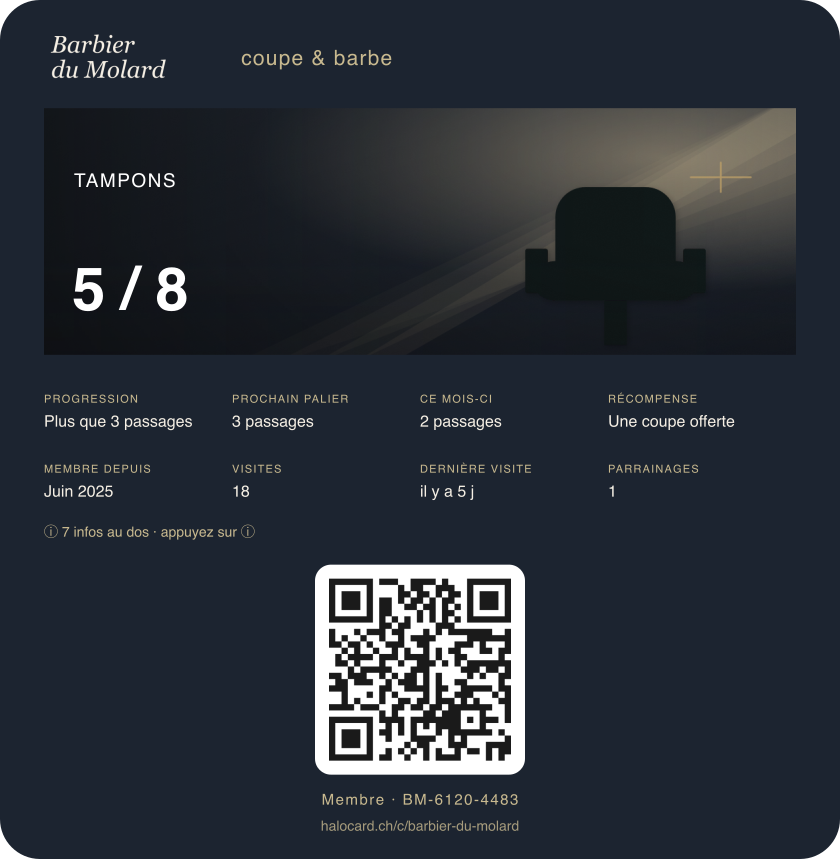
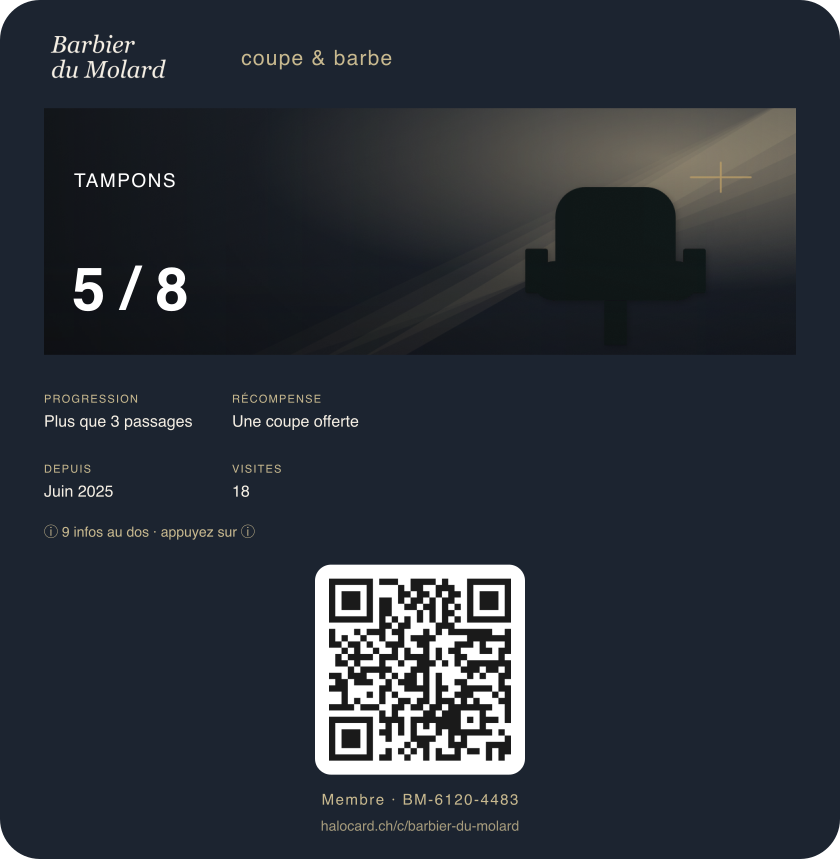
fix(kit): recto sobre — 1 secondary + 2 auxiliary courts, le détail au dos
Constaté sur iPhone : les lignes du milieu du pass étaient illisibles —
3 secondary kit (+ RÉCOMPENSE injectée par applyIdentity = 4 colonnes) et
4 auxiliary aux labels longs (« MEMBRE DEPUIS », « DERNIÈRE VISITE »,
« PARRAINAGES ») : les textes se touchaient.

- seedKit.ts : secondary 3 → 1 (PROGRESSION ; RÉCOMPENSE injectée fait la
  2e colonne) ; auxiliary 4 → 2 avec labels courts (« DEPUIS », « VISITES ») ;
  PROCHAIN PALIER et PARRAINAGES déplacés au DOS (rien n'est perdu) ; le
  {points} vivant du tiered passe d'auxiliary au dos (« PROGRÈS »), même
  motif que le compteur amount_points. Dos kit plafonné à 6 champs :
  applyIdentity en appende 4-5 et passJson tronque à MAX_BACK_FIELDS (10) —
  au-delà, le téléphone sauterait.
- kit.ts : champs volatils CE MOIS-CI (thisMonth) et DERNIÈRE VISITE
  (lastVisit) SUPPRIMÉS du type DemoFieldData + des 7 entrées (même forme
  que la suppression de `statut`, 4b43180) : les déplacer au dos aurait
  crevé le plafond de 10 backFields et évincé les champs identité.
- seedKit.test.ts : verrous mis à jour en conscience (secondary = 1,
  auxiliary = 2, dos ∈ [5, 6], plancher total ≥ 9) — chaque assertion
  commentée ; nouveau verrou lisibilité : label ≤ 14 caractères sur
  secondary/auxiliary.
- Maquettes régénérées et vérifiées à l'œil (7/7) : aucun texte ne se
  touche.

diff --git a/src/lib/demo/kit.ts b/src/lib/demo/kit.ts
@@ -43,13 +43,11 @@ export type DemoArtText = {
 // gérés par le moteur ; ici uniquement des valeurs démo statiques.
 export type DemoFieldData = {
   primaryValue?: string; // valeur primary STATIQUE (amount_points : seuil > 50, jeton inadapté)
-  progression: string;   // secondary « PROGRESSION »
-  nextStep: string;      // secondary « PROCHAIN PALIER »
-  thisMonth: string;     // secondary « CE MOIS-CI »
-  memberSince: string;   // auxiliary « MEMBRE DEPUIS »
+  progression: string;   // secondary « PROGRESSION » (seul secondary : RÉCOMPENSE est injectée à côté)
+  memberSince: string;   // auxiliary « DEPUIS »
   totalVisits: string;   // auxiliary « VISITES »
-  lastVisit: string;     // auxiliary « DERNIÈRE VISITE »
-  referrals: string;     // auxiliary « PARRAINAGES »
+  nextStep: string;      // back « PROCHAIN PALIER »
+  referrals: string;     // back « PARRAINAGES »
   memberId: string;      // back « VOTRE N° DE MEMBRE »
   howItWorks: string;    // back « COMMENT ÇA MARCHE »
   conditions: string;    // back « CONDITIONS »
@@ -174,8 +172,8 @@ export const DEMO_KIT: readonly DemoKitEntry[] = [
     rewardLabel: "Un café offert",
     bannerPhoto: "pass-assets/banners/cafe.jpg",
     demo: {
-      progression: "Plus que 3 cafés", nextStep: "3 cafés", thisMonth: "14 cafés",
-      memberSince: "Mars 2024", totalVisits: "87", lastVisit: "il y a 2 j", referrals: "3",
+      progression: "Plus que 3 cafés", nextStep: "3 cafés",
+      memberSince: "Mars 2024", totalVisits: "87", referrals: "3",
       memberId: "CR-4827-6391",
       howItWorks: "Un tampon offert à chaque café. Le 10ᵉ vous est offert.",
       conditions: "Un café offert par carte complétée. Non cumulable, non échangeable en espèces.",
@@ -206,8 +204,8 @@ export const DEMO_KIT: readonly DemoKitEntry[] = [
     businessHours: HOURS_BAKERY,
     rewardLabel: "Une viennoiserie offerte",
     demo: {
-      progression: "Plus que 2 achats", nextStep: "2 achats", thisMonth: "9 visites",
-      memberSince: "Janv. 2025", totalVisits: "46", lastVisit: "hier", referrals: "1",
+      progression: "Plus que 2 achats", nextStep: "2 achats",
+      memberSince: "Janv. 2025", totalVisits: "46", referrals: "1",
       memberId: "BP-3310-274",
       howItWorks: "Un tampon par achat. Le 8ᵉ achat = une viennoiserie offerte.",
       conditions: "Viennoiserie au choix (hors pièces spéciales). Valable 30 jours.",
@@ -240,8 +238,8 @@ export const DEMO_KIT: readonly DemoKitEntry[] = [
     bannerPhoto: "pass-assets/banners/pizza.jpg",
     demo: {
       primaryValue: "320 pts",
-      progression: "Plus que 80 pts", nextStep: "200 pts", thisMonth: "240 pts",
-      memberSince: "Sept. 2024", totalVisits: "23", lastVisit: "il y a 4 j", referrals: "2",
+      progression: "Plus que 80 pts", nextStep: "200 pts",
+      memberSince: "Sept. 2024", totalVisits: "23", referrals: "2",
       memberId: "PZ-5582-10",
       howItWorks: "1 point par franc dépensé. CHF 20 offerts dès 200 points.",
       conditions: "Récompense déduite au comptoir. Points valables 12 mois.",
@@ -277,8 +275,8 @@ export const DEMO_KIT: readonly DemoKitEntry[] = [
     businessHours: HOURS_SALON,
     rewardLabel: "Un soin offert",
     demo: {
-      progression: "Plus que 2 visites", nextStep: "5 visites", thisMonth: "2 visites",
-      memberSince: "Févr. 2025", totalVisits: "12", lastVisit: "il y a 9 j", referrals: "0",
+      progression: "Plus que 2 visites", nextStep: "5 visites",
+      memberSince: "Févr. 2025", totalVisits: "12", referrals: "0",
       memberId: "SL-7741-08",
       howItWorks: "Une visite enregistrée à chaque passage. Récompenses à 5, 10 et 15 visites.",
       conditions: "Un soin offert à chaque palier atteint. Sur rendez-vous, non cumulable.",
@@ -309,8 +307,8 @@ export const DEMO_KIT: readonly DemoKitEntry[] = [
     businessHours: HOURS_SALON,
     rewardLabel: "Avantages niveau Or",
     demo: {
-      progression: "Plus que 4 soins", nextStep: "Niveau Or", thisMonth: "1 soin",
-      memberSince: "Avril 2024", totalVisits: "6", lastVisit: "il y a 21 j", referrals: "1",
+      progression: "Plus que 4 soins", nextStep: "Niveau Or",
+      memberSince: "Avril 2024", totalVisits: "6", referrals: "1",
       memberId: "BR-9920-44",
       howItWorks: "Votre statut progresse avec vos soins : Bronze (3), Argent (6), Or (10).",
       conditions: "Avantages Or : −15 % permanents + un soin signature offert par an.",
@@ -347,8 +345,8 @@ export const DEMO_KIT: readonly DemoKitEntry[] = [
     businessHours: HOURS_BARBER,
     rewardLabel: "Une coupe offerte",
     demo: {
-      progression: "Plus que 3 passages", nextStep: "3 passages", thisMonth: "2 passages",
-      memberSince: "Juin 2025", totalVisits: "18", lastVisit: "il y a 5 j", referrals: "1",
+      progression: "Plus que 3 passages", nextStep: "3 passages",
+      memberSince: "Juin 2025", totalVisits: "18", referrals: "1",
       memberId: "BM-6120-4483",
       howItWorks: "Un tampon à chaque passage. La 8ᵉ coupe vous est offerte.",
       conditions: "Coupe classique offerte à la 8ᵉ visite. Non cumulable, non échangeable en espèces.",
@@ -379,8 +377,8 @@ export const DEMO_KIT: readonly DemoKitEntry[] = [
     businessHours: HOURS_DAILY,
     rewardLabel: "Un café offert",
     demo: {
-      progression: "Plus que 3 cafés", nextStep: "3 cafés", thisMonth: "6 cafés",
-      memberSince: "Mai 2025", totalVisits: "10", lastVisit: "hier", referrals: "0",
+      progression: "Plus que 3 cafés", nextStep: "3 cafés",
+      memberSince: "Mai 2025", totalVisits: "10", referrals: "0",
       memberId: "BD-1002-55",
       howItWorks: "Un tampon par café. Le 10ᵉ vous est offert.",
       conditions: "Un café offert par carte complétée. Compte de démonstration.",

diff --git a/src/lib/demo/seedKit.ts b/src/lib/demo/seedKit.ts
@@ -92,10 +92,10 @@ export function goalForDisplay(entry: DemoKitEntry): number {
   return Math.max(1, Math.min(50, raw));
 }
 
-// Jeu de champs RICHE remplissant les zones natives (cf. carte showcase du site).
-// Toujours ≥ 1 champ porteur de {points} → évite le fallback « carte morte » de
-// passJson. Récompense/horaires/adresse/avis sont injectés AILLEURS par applyIdentity
-// (carte vivante F1) → on NE les duplique PAS ici.
+// Jeu de champs SOBRE (v5) : le recto respire (1 secondary + 2 auxiliary à labels
+// courts), le reste vit au DOS. Toujours ≥ 1 champ porteur de {points} → évite le
+// fallback « carte morte » de passJson. Récompense/horaires/adresse/avis sont
+// injectés AILLEURS par applyIdentity (carte vivante F1) → on NE les duplique PAS ici.
 export function kitDesignFields(entry: DemoKitEntry): CardField[] {
   const d = entry.demo;
   // primary : tiered → {palier} ; amount_points → valeur STATIQUE (seuil > 50,
@@ -114,24 +114,30 @@ export function kitDesignFields(entry: DemoKitEntry): CardField[] {
     // device 2026-07-03). Le haut = logo + devise, rien d'autre : collision
     // impossible. Le palier (tiered) vit en PRIMARY, bien plus visible.
     primary,
+    // UN seul secondary : applyIdentity ajoute « RÉCOMPENSE » sur la même ligne
+    // (passJson) → 2 colonnes au total. À 3 champs kit (+1 injecté = 4), les
+    // valeurs se touchaient sur iPhone (constaté 2026-07-10).
     { id: "s_prog", zone: "secondary", label: "PROGRESSION", value: d.progression, order: 3 },
-    { id: "s_next", zone: "secondary", label: "PROCHAIN PALIER", value: d.nextStep, order: 4 },
-    { id: "s_month", zone: "secondary", label: "CE MOIS-CI", value: d.thisMonth, order: 5 },
-    { id: "a_since", zone: "auxiliary", label: "MEMBRE DEPUIS", value: d.memberSince, order: 6 },
-    { id: "a_visits", zone: "auxiliary", label: "VISITES", value: d.totalVisits, order: 7 },
-    { id: "a_last", zone: "auxiliary", label: "DERNIÈRE VISITE", value: d.lastVisit, order: 8 },
-    // tiered n'a pas de {points} en primary → on le met en auxiliary (progrès vers le top).
-    entry.loyaltyType === "tiered"
-      ? { id: "a_prog", zone: "auxiliary", label: "PROGRÈS", value: "{points}", order: 9 }
-      : { id: "a_ref", zone: "auxiliary", label: "PARRAINAGES", value: d.referrals, order: 9 },
-    { id: "b_member", zone: "back", label: "VOTRE N° DE MEMBRE", value: d.memberId, order: 10 },
-    { id: "b_how", zone: "back", label: "COMMENT ÇA MARCHE", value: d.howItWorks, order: 11 },
-    { id: "b_cond", zone: "back", label: "CONDITIONS DE LA RÉCOMPENSE", value: d.conditions, order: 12 },
+    // DEUX auxiliary max, labels courts (≤ 12 car.) : 4 colonnes aux labels longs
+    // (« MEMBRE DEPUIS », « DERNIÈRE VISITE ») se touchaient sur iPhone.
+    { id: "a_since", zone: "auxiliary", label: "DEPUIS", value: d.memberSince, order: 4 },
+    { id: "a_visits", zone: "auxiliary", label: "VISITES", value: d.totalVisits, order: 5 },
+    // Le reste vit au DOS — l'info change de place, elle n'est pas perdue.
+    // Dos du kit ≤ 6 champs : applyIdentity en appende 4-5 (horaires/adresse/
+    // itinéraire/téléphone ± avis) et passJson tronque à MAX_BACK_FIELDS (10).
+    { id: "b_member", zone: "back", label: "VOTRE N° DE MEMBRE", value: d.memberId, order: 6 },
+    { id: "b_next", zone: "back", label: "PROCHAIN PALIER", value: d.nextStep, order: 7 },
+    { id: "b_ref", zone: "back", label: "PARRAINAGES", value: d.referrals, order: 8 },
+    { id: "b_how", zone: "back", label: "COMMENT ÇA MARCHE", value: d.howItWorks, order: 9 },
+    { id: "b_cond", zone: "back", label: "CONDITIONS DE LA RÉCOMPENSE", value: d.conditions, order: 10 },
   ];
-  // amount_points : primary statique → aucun {points} ailleurs. On en place un au
-  // DOS (discret) pour neutraliser le fallback « carte morte » de passJson.
+  // Pas de {points} en primary (amount_points : statique ; tiered : {palier}) →
+  // compteur vivant au DOS (discret) pour neutraliser le fallback « carte morte »
+  // de passJson. tiered : c'est aussi le progrès chiffré vers le dernier palier.
   if (entry.loyaltyType === "amount_points") {
-    fields.push({ id: "b_counter", zone: "back", label: "PROGRESSION", value: "{points}", order: 13 });
+    fields.push({ id: "b_counter", zone: "back", label: "PROGRESSION", value: "{points}", order: 11 });
+  } else if (entry.loyaltyType === "tiered") {
+    fields.push({ id: "b_prog", zone: "back", label: "PROGRÈS", value: "{points}", order: 11 });
   }
   return fields;
 }

diff --git a/src/lib/demo/__tests__/seedKit.test.ts b/src/lib/demo/__tests__/seedKit.test.ts
@@ -33,7 +33,7 @@ describe("buildKitLogoAssets — chemins Storage scoped au tenant", () => {
   });
 });
 
-describe("buildKitDesign — design showcase v4 (champs riches, bannière maîtrisée)", () => {
+describe("buildKitDesign — design sobre v5 (recto aéré, le détail au dos)", () => {
   it("carte à tampons : cardType points + primary {points} + assets scoped", () => {
     const d = buildKitDesign(cafe, "m-cafe");
     expect(d.cardType).toBe("points");
@@ -43,32 +43,48 @@ describe("buildKitDesign — design showcase v4 (champs riches, bannière maîtr
     expect(d.logo.assets?.apple?.strip3).toBe("m-cafe/apple/strip@3x.png");
   });
 
-  it("carte à niveaux : primary {palier} STATUT + {points} en auxiliary (progrès)", () => {
+  it("carte à niveaux : primary {palier} STATUT + {points} au DOS (progrès)", () => {
     const d = buildKitDesign(institut, "m-inst");
     expect(d.cardType).toBe("points");
     const palier = d.fields.find((f) => f.value === "{palier}");
     expect(palier?.zone).toBe("primary");
     expect(palier?.label).toBe("STATUT");
     // {points} doit exister quelque part (sinon fallback « carte morte » de passJson).
-    expect(d.fields.some((f) => f.value === "{points}")).toBe(true);
+    // v5 : il vit au DOS (l'auxiliary est réservé à DEPUIS + VISITES, recto sobre).
+    const prog = d.fields.find((f) => f.value === "{points}");
+    expect(prog?.zone).toBe("back");
   });
 
-  it("remplit les zones natives dans les limites Apple + ≥1 champ {points}", () => {
+  it("zones sobres (1 secondary, 2 auxiliary, dos fourni) + ≥1 champ {points}", () => {
     for (const entry of DEMO_KIT) {
       const d = buildKitDesign(entry, "m");
-      const byZone = (z: string) => d.fields.filter((f) => f.zone === z).length;
+      const byZone = (z: string) => d.fields.filter((f) => f.zone === z);
       // ZÉRO champ header : la ligne du haut du pass Apple est partagée entre le
       // logo (wordmark large) et logoText (devise) — même UN headerField touchait
       // encore la devise sur iPhone (constaté sur device les 2026-07-02 et 03).
       // Le haut du pass = logo + devise, rien d'autre.
-      expect(byZone("header"), entry.shopName).toBe(0);
-      expect(byZone("primary"), entry.shopName).toBe(1);
-      // 3 secondary design (+ récompense ajoutée par applyIdentity = 4 ≤ limite).
-      expect(byZone("secondary"), entry.shopName).toBe(3);
-      expect(byZone("auxiliary"), entry.shopName).toBeLessThanOrEqual(4);
-      expect(byZone("back"), entry.shopName).toBeGreaterThanOrEqual(3);
-      expect(d.fields.length, entry.shopName).toBeGreaterThanOrEqual(11);
+      expect(byZone("header").length, entry.shopName).toBe(0);
+      expect(byZone("primary").length, entry.shopName).toBe(1);
+      // 1 secondary (était 3) : applyIdentity ajoute RÉCOMPENSE sur la même ligne
+      // → 2 colonnes rendues. À 3+1, les textes se touchaient sur iPhone (2026-07-10).
+      expect(byZone("secondary").length, entry.shopName).toBe(1);
+      // 2 auxiliary (était ≤ 4) : 4 colonnes aux labels longs étaient illisibles.
+      expect(byZone("auxiliary").length, entry.shopName).toBe(2);
+      // Le dos accueille ce qui a quitté le recto (≥ 5, était ≥ 3)…
+      expect(byZone("back").length, entry.shopName).toBeGreaterThanOrEqual(5);
+      // …mais reste ≤ 6 : applyIdentity appende 4-5 champs identité et passJson
+      // tronque à MAX_BACK_FIELDS (10) — au-delà, le téléphone sauterait.
+      expect(byZone("back").length, entry.shopName).toBeLessThanOrEqual(6);
+      // Plancher total 9 (était 11) : 2 champs volatils supprimés (CE MOIS-CI,
+      // DERNIÈRE VISITE), le reste a changé de zone sans être perdu.
+      expect(d.fields.length, entry.shopName).toBeGreaterThanOrEqual(9);
       expect(d.fields.some((f) => f.value.includes("{points}")), entry.shopName).toBe(true);
+      // Verrou lisibilité : labels courts sur les lignes visibles du recto
+      // (secondary/auxiliary) — les labels longs (« MEMBRE DEPUIS », « DERNIÈRE
+      // VISITE ») provoquaient les collisions constatées sur iPhone.
+      for (const f of [...byZone("secondary"), ...byZone("auxiliary")]) {
+        expect(f.label.length, `${entry.shopName} · ${f.label}`).toBeLessThanOrEqual(14);
+      }
     }
   });
 });
